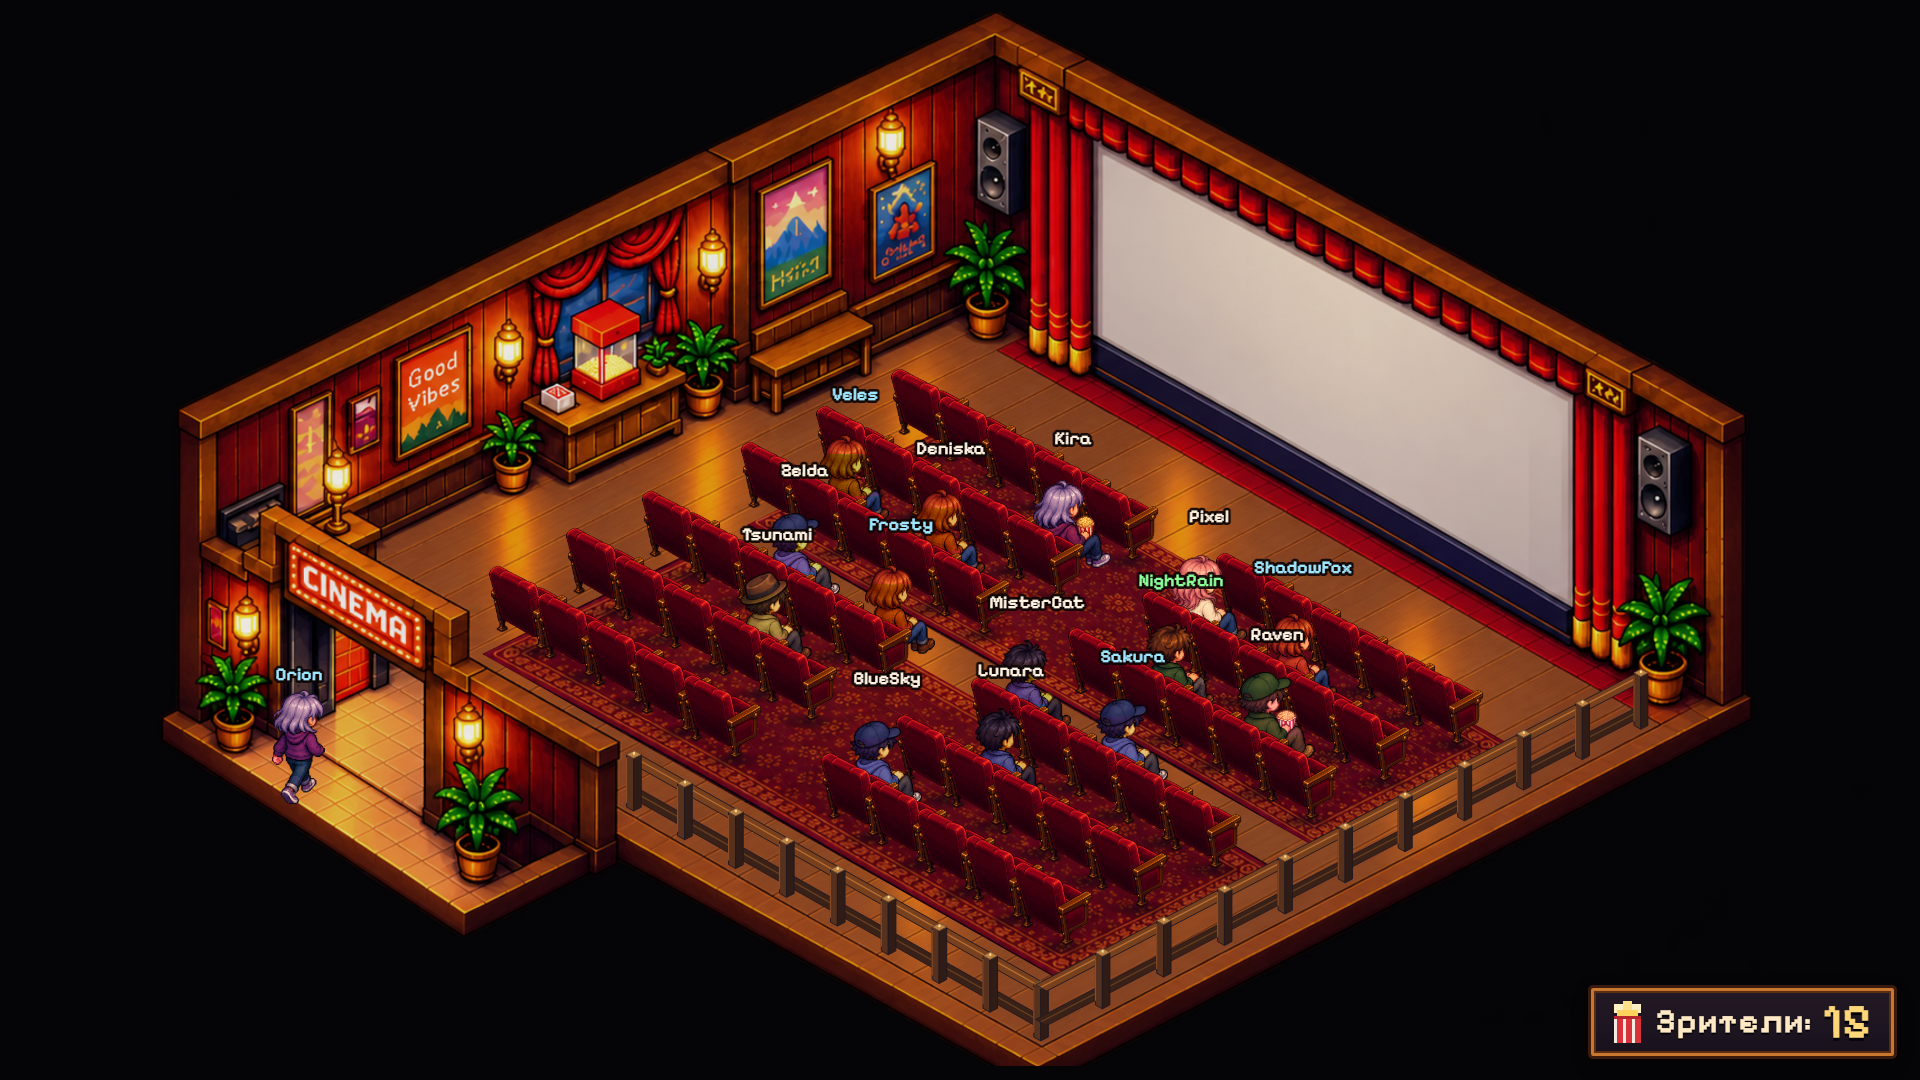
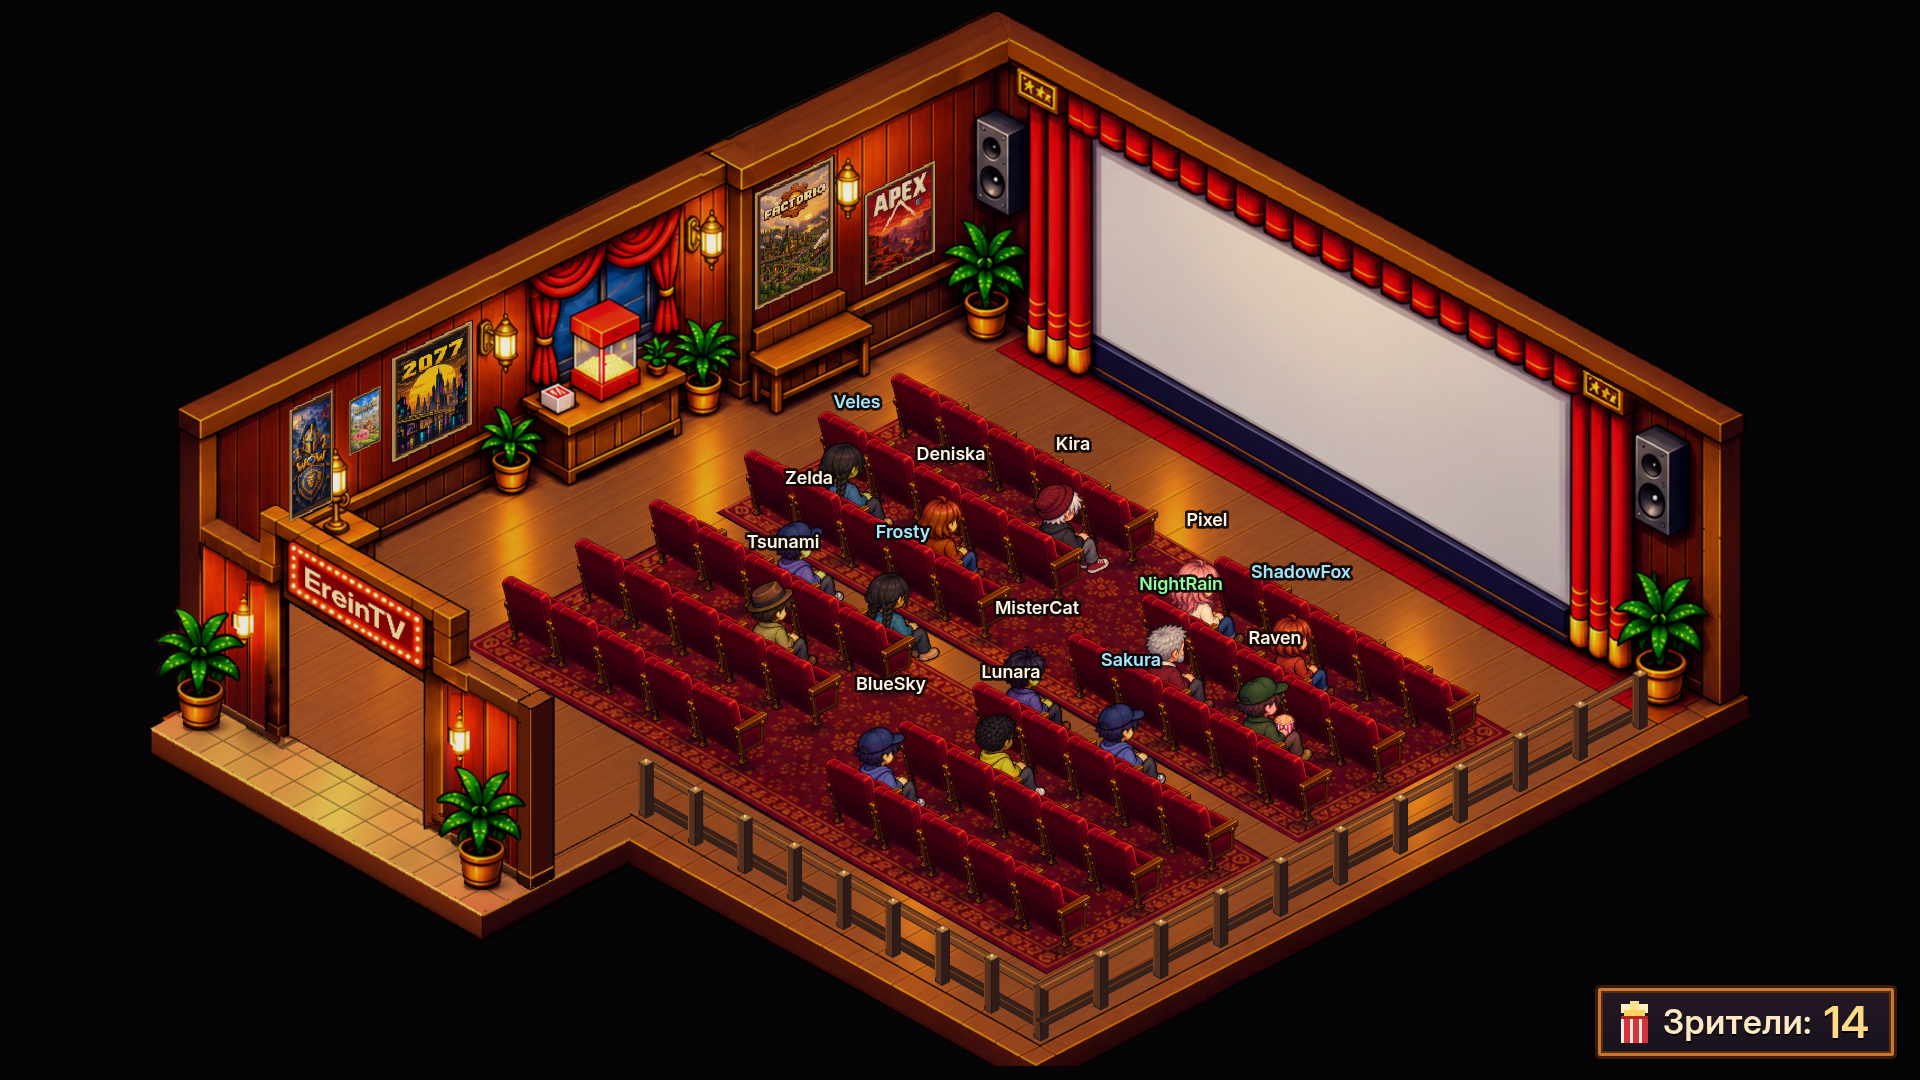
Добавить пять игровых постеров по умолчанию

Changed region(s): [[0.0625, 0.0, 0.9062, 0.9472], [0.8125, 0.9167, 0.9688, 0.9778], [0.5312, 0.9472, 0.5625, 0.9778]]

diff --git a/config.js b/config.js
@@ -39,14 +39,14 @@ window.CINEMA_CONFIG = {
     rug1: 'assets/art/rug-1.png',
     rug2: 'assets/art/rug-2.png'
   },
-  // Пять мест для своих постеров слева направо. Укажите путь к PNG/JPG/SVG.
+  // Комплектные постеры слева направо; можно заменить своими PNG/JPG/SVG.
   // null, отсутствующая настройка или ошибка загрузки = пустая стена.
   posters: {
-    poster1: null,
-    poster2: null,
-    poster3: null,
-    poster4: null,
-    poster5: null
+    poster1: 'assets/posters/world-of-warcraft.png',
+    poster2: 'assets/posters/ragnarok-online.png',
+    poster3: 'assets/posters/cyberpunk-2077.png',
+    poster4: 'assets/posters/factorio.png',
+    poster5: 'assets/posters/apex-legends.png'
   },
   initialEntrance: 'seated',  // ?initial=walk | seated  (how viewers present at page load appear)
 

diff --git a/js/decor.js b/js/decor.js
@@ -56,7 +56,7 @@
       ctx.closePath();
       ctx.clip();
       const replacement = replacements.get(id);
-      // Frames are generated only for successfully loaded user images.
+      // Frames are generated only for successfully loaded images.
       const height = 240 * (d[1] - a[1]) / (b[0] - a[0]);
       ctx.transform((b[0] - a[0]) / 240, (b[1] - a[1]) / 240,
         (d[0] - a[0]) / height, (d[1] - a[1]) / height, ...a);

diff --git a/tests/run_tests.py b/tests/run_tests.py
@@ -121,7 +121,7 @@ def main():
                 distinct: new Set(scene.posters.map(p => p.image)).size,
                 sign: scene.sign.text, configuredSign: window.CINEMA_CONFIG.signText ?? 'CINEMA'};
         }''')
-        check('decor. default room has no posters or frames', decor['ids'] == [] and decor['distinct'] == 0)
+        check('decor. five bundled posters load in the default room', decor['ids'] == ['poster1','poster2','poster3','poster4','poster5'] and decor['distinct'] == 5)
         check('decor. marquee uses configured text', decor['sign'] == decor['configuredSign'])
         custom = pg.evaluate('''async () => {
             const sources = {};

diff --git a/README.md b/README.md
@@ -71,15 +71,16 @@
 
 ### Постеры и ковры
 
-Положите свои изображения в `assets/posters/` и назначьте места в `config.js`:
+По умолчанию установлены постеры пяти игр. Их можно заменить своими изображениями
+из `assets/posters/`, изменив пути в `config.js`:
 
 ```js
 posters: {
-  poster1: 'assets/posters/ally-flag.png',
-  poster2: null,
-  poster3: null,
-  poster4: null,
-  poster5: null
+  poster1: 'assets/posters/world-of-warcraft.png',
+  poster2: 'assets/posters/ragnarok-online.png',
+  poster3: 'assets/posters/cyberpunk-2077.png',
+  poster4: 'assets/posters/factorio.png',
+  poster5: 'assets/posters/apex-legends.png'
 },
 ```
 

diff --git a/assets/art/README.md b/assets/art/README.md
@@ -14,7 +14,7 @@
 Варианты одежды и внешность выбираются по логину и сохраняются между сценами.
 
 Постеры и текст вывески добавляются отдельно через `config.js`.
-Изображения из `assets/posters/` — необязательные пользовательские ресурсы.
+В `assets/posters/` лежат комплектные постеры игр; туда же можно добавлять свои.
 
 При замене фона проверьте калибровку в `js/layout.js`, позиции постеров и
 вывески в `js/decor.js`, а также маски и слои в `js/art.js`.
